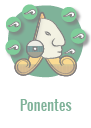
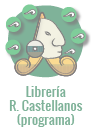
Cambio de item, programa e imagotipo Bella epoca

Changed region(s): [[0.1099, 0.6562, 0.9011, 1.0]]

diff --git a/protected/views/semana/ponentes.php b/protected/views/semana/ponentes.php
@@ -17,63 +17,15 @@ $( "#accordion" ).accordion({
 
 
 <!--<h1>Ponentes</h1><br>-->
-<span>Del 21 al 25 de mayo tendremos
-conversatorios sobre Nuestra biodiversidad, nuestra alimentación, nuestra salud.<br>
-<br>
-Próximamente los publicaremos</span><br><br>
+<span>Del 21 al 25 de mayo tendremos actividades sobre Nuestra biodiversidad, nuestra alimentación, nuestra salud. <a href="http://www.biodiversidad.gob.mx/Difusion/news/images/programa_9SDB_carta.jpg" target="_blank">Consulta el programa de la 9a. Semana de la Diversidad Biológica</a>
+</span><br><br>
 
 
-<div style="width: 50%; float:left; display: none;">
-
-<span class="tit_materiales">Moderadores</span><br>
-<ul>
-  <li><a href="https://es.wikipedia.org/wiki/Karla_Iberia_S%C3%A1nchez" target="_blank">Karla Iberia Sánchez</a></li>
-  <li><a href="https://www.facebook.com/miguelbarcenad" target="_blank">Miguel Bárcena</a></li>
-  <li><a href="http://carrillazo.com/" target="_blank">Iván Carrillo</a></li>
-  <li>Leonardo Ferreira</li>
-</ul>
-<br><br>
-
-
-<span class="tit_materiales">Ponentes</span><br>
-<ul>
-<li><a href="http://transportarte.com.mx/evento/adriana-lebrija/" target="_blank">Adriana Lebrija</a> / <span class="conabio">Conabio</span></li>
-<li><a href="https://www.linkedin.com/in/aketzalli-gonz%C3%A1lez-52a846149/" target="_blank">Aketzalli González</a></li>
-<li><a href="https://es.wikipedia.org/wiki/Alexander_Holtmann" target="_blank">Alexander Holtmann</a></li>
-<li><a href="https://github.com/AliciaMstt" target="_blank">Alicia Mastretta Yanes</a> / <span class="conabio">Conabio</span></li>
-<li><a href="https://moreliafilmfest.com/jurado/ana-cruz/" target="_blank">Ana Cruz</a></li>
-<li><a href="https://www.gob.mx/conabio/estructuras/dr-carlos-enrique-galindo-leal" target="_blank">Carlos Galindo Leal</a> / <span class="conabio">Conabio</span></li>
-<li><a href="http://www.sedema.cdmx.gob.mx/secretaria/estructura/18" target="_blank">Claudia Lewy</a> / Directora de zoológicos de la CDMX</li>
-<li><a href="http://www.mbibyc.mx/index.php/tutores/14-contenido/83-dra-martinez" target="_blank">Cristina Martínez Garza</a></span> / Centro de Investigación en Biodiversidad y Conservación (CIByC)</li>
-<li><a href="https://www.crim.unam.mx/web/node/843" target="_blank">Eliane Ceccon</a> / Centro Regional de Investigaciones Multidisciplinarias (CRIM)</li>
-<li><a href="http://www.naturalista.mx/people/elizatorres" target="_blank">Elizabeth Torres Bahena</a> / <span class="conabio">Conabio</span></li>
-<li><a href="https://www.linkedin.com/in/fabiola-l%C3%B3pez-salda%C3%B1a-0783462a/" target="_blank">Fabiola López Saldaña</a> / <span class="conabio">Conabio</span></li>
-<li><a href="https://www.gob.mx/conabio/estructuras/biol-hesiquio-benitez-diaz" target="_blank">Hesiquio Benítez Díaz</a> / <span class="conabio">Conabio</span></li>
-<li><a href="https://www.linkedin.com/in/idalia-claudia-rojas-barrera-39232128/" target="_blank">Idalia Rojas</a></li>
-<li><a href="https://www.linkedin.com/in/ignacio-march-7ab7a0111/" target="_blank">Ignacio March Mifsut</a> / Conanp</li>
-<li><a href="https://www.linkedin.com/in/jos%C3%A9-francisco-bernal-stoopen-a775057b/" target="_blank">José Bernal Stoopen</a></li>
-<li><a href="https://es.wikipedia.org/wiki/Jos%C3%A9_Sarukh%C3%A1n_Kermez" target="_blank">José Sarukhán</a> / <span class="conabio">Conabio</span></li>
-<li><a href="http://cobi.org.mx/" target="_blank">María José Espinosa Rivero</a> / COBI</li>
-<li><a href="http://www.inecol.edu.mx/personal/index.php/ambiente-y-sustentabilidad/21-miguel-e-equihua-zamora" target="_blank">Miguel Equihua Zamora</a> / INECOL</li>
-<li><a href="https://www.linkedin.com/in/mois%C3%A9s-m%C3%A9ndez-toribio-08436551/" target="_blank">Moisés Méndez Toribio</a> / Centro Regional de Investigaciones Multidisciplinarias (CRIM)</li>
-<li><a href="https://www.gob.mx/conabio/estructuras/mtro-pedro-carlos-alvarez-icaza-longoria" target="_blank">Pedro Álvarez Icaza Longoria</a> / <span class="conabio">Conabio</span></li>
-<li><a href="https://www.linkedin.com/in/roberto-arreola-alem%C3%B3n-a25631146/" target="_blank">Roberto Arreola Alemón</a> / <span class="conabio">Conabio</span></li>
-<li><a href="https://www.linkedin.com/in/roberto-cerda-0765115b/" target="_blank">Roberto Cerda</a> / Restore Coral</li>
-<li><a href="https://www.researchgate.net/profile/Wolke_Tobon" target="_blank">Wolke Tobon</a> / <span class="conabio">Conabio</span></li>
-</ul>
-<br>
-	
-<br>
-
-</div>
-
-
-<div style="width: 50%; display: ; text-align: center; float:left; display:none;">
+<div style="width: 100%; display: ; text-align: center; float:left; display:;">
 
 <p>
-  <a href="http://www.biodiversidad.gob.mx/Difusion/news/images/programa_8SDB_carta.jpg" target="_blank"><img src="http://www.biodiversidad.gob.mx/Difusion/news/images/programa_8SDB_carta.jpg" width="200" height="155" alt=""/></a><br>
-  <a href="http://www.biodiversidad.gob.mx/Difusion/news/images/programa_8SDB_carta.jpg" target="_blank">Consulta el programa de la<br>
-9a. Semana de la Diversidad Biológica</a>
+  <a href="http://www.biodiversidad.gob.mx/Difusion/news/images/programa_9SDB_carta.jpg" target="_blank"><img src="http://www.biodiversidad.gob.mx/Difusion/news/images/programa_9SDB_carta.jpg" width="100%" alt=""/></a><br>
+  
 </p>
 </div>
 

diff --git a/protected/views/semana/inicio.php b/protected/views/semana/inicio.php
@@ -6,23 +6,20 @@
 <br>
 </center>-->
 
-<div style="display: inline-block; width: 35%; float: left; display: none" id="programa_sdb">
-<a href="http://www.biodiversidad.gob.mx/Difusion/news/images/programa_8SDB_carta.jpg" target="_blank"><img src="http://www.biodiversidad.gob.mx/Difusion/news/images/programa_8SDB_carta.jpg" width="200" height="155" alt=""/></a<br><br>
-<a href="http://www.biodiversidad.gob.mx/Difusion/news/images/programa_8SDB_carta.jpg" target="_blank">Programa de actividades en el Antiguo Colegio de San Ildefonso</a><br><br>
+<div style="display: inline-block; width: 35%; float: left; display:" id="programa_sdb"><br>
+<a href="http://www.biodiversidad.gob.mx/Difusion/news/images/programa_9SDB_carta.jpg" target="_blank"><img src="http://www.biodiversidad.gob.mx/Difusion/news/images/programa_9SDB_carta.jpg" width="200" height="155" alt=""/></a<br><br>
+<a href="http://www.biodiversidad.gob.mx/Difusion/news/images/programa_9SDB_carta.jpg" target="_blank">Programa en la Librería<br>
+Rosario Castellanos</a><br><br>
 </div>
   
 <div style="display: inline-block; width: 65%; float: left; display: none" id="video_sdb">
 <iframe width="100%" height="315" src="https://www.youtube.com/embed/UIHVFVO126Y?rel=0&amp;showinfo=0" frameborder="0" allowfullscreen></iframe><br><br>
 </div>
 
-<p>La década de la diversidad biológica de 2011 a 2020 tiene el propósito de aumentar las actividades de difusión para que todos conozcamos la situación de la diversidad biológica y participemos en su manejo sustentable, restauración y conservación.<br>
-<br>
-Cada 22 de mayo se celebra el día de la diversidad biológica. Este 2019 celebraremos con el tema <span class="slogan">"Nuestra biodiversidad, nuestra alimentación, nuestra salud"</span>.<br><br>
+<p>La década de la diversidad biológica de 2011 a 2020 tiene el propósito de aumentar las actividades de difusión para que todos conozcamos la situación de la diversidad biológica y participemos en su manejo sustentable, restauración y conservación.<br><br>
+ Cada 22 de mayo se celebra el día de la diversidad biológica, este 2019 celebraremos con el tema <span class="slogan">"Nuestra biodiversidad, nuestra alimentación, nuestra salud"</span>.<br><br>
 
-Organiza alguna conferencia o charla para el público general sobre uno o más sitios seleccionados en tu región o estado. Organiza un evento que ayude al público a reflexionar sobre la naturaleza de algún sitio especial.<br><br>
-
-
-Si tienes alguna duda o requieres m&aacute;s informaci&oacute;n escr&iacute;benos a:&nbsp;<a href="mailto:sdb@conabio.gob.mx">sdb@conabio.gob.mx</a>
+Organiza alguna conferencia o charla para el público general sobre biodiversidad, alimentación y salud o un evento que ayude al público a reflexionar sobre cómo la biodiversidad repercute en nuestra alimentación y salud.<br> Si tienes alguna duda o requieres m&aacute;s informaci&oacute;n escr&iacute;benos a:&nbsp;<a href="mailto:sdb@conabio.gob.mx">sdb@conabio.gob.mx</a>
 </p>
 
 <!--<p><h4 class="verde">Historias de éxito</h4> 
@@ -43,10 +40,11 @@ Si tienes alguna duda o requieres m&aacute;s informaci&oacute;n escr&iacute;beno
 
 <center>
 <p>
-<a href="http://www.conabio.gob.mx/" target="_blank"><img src="<?php echo Yii::app()->request->baseUrl; ?>/imagenes/pagina/logo_semarnat_conabio.png" width="407" height="59" /></a>&nbsp;&nbsp;
+<a href="http://www.conabio.gob.mx/" target="_blank"><img src="<?php echo Yii::app()->request->baseUrl; ?>/imagenes/pagina/logo_conabio.png" width="178" height="59" /></a>&nbsp;&nbsp;
 
-
-<a href="https://www.cbd.int/2011-2020/" target="_blank"><img src="<?php echo Yii::app()->request->baseUrl; ?>/imagenes/pagina/logo_2011_2020.png" width="147" height="59" /></a>
+<a href="https://www.cbd.int/2011-2020/" target="_blank"><img src="<?php echo Yii::app()->request->baseUrl; ?>/imagenes/pagina/logo_2011_2020.png" width="147" height="59" /></a>&nbsp;&nbsp;
+	
+<a href="https://fondodeculturaeconomica.com/RedLibrerias.aspx?id_lib=4" target="_blank"><img src="<?php echo Yii::app()->request->baseUrl; ?>/imagenes/pagina/logo_libreriarc.png" width="229" height="128" /></a>
 
 </p>
 </center>
